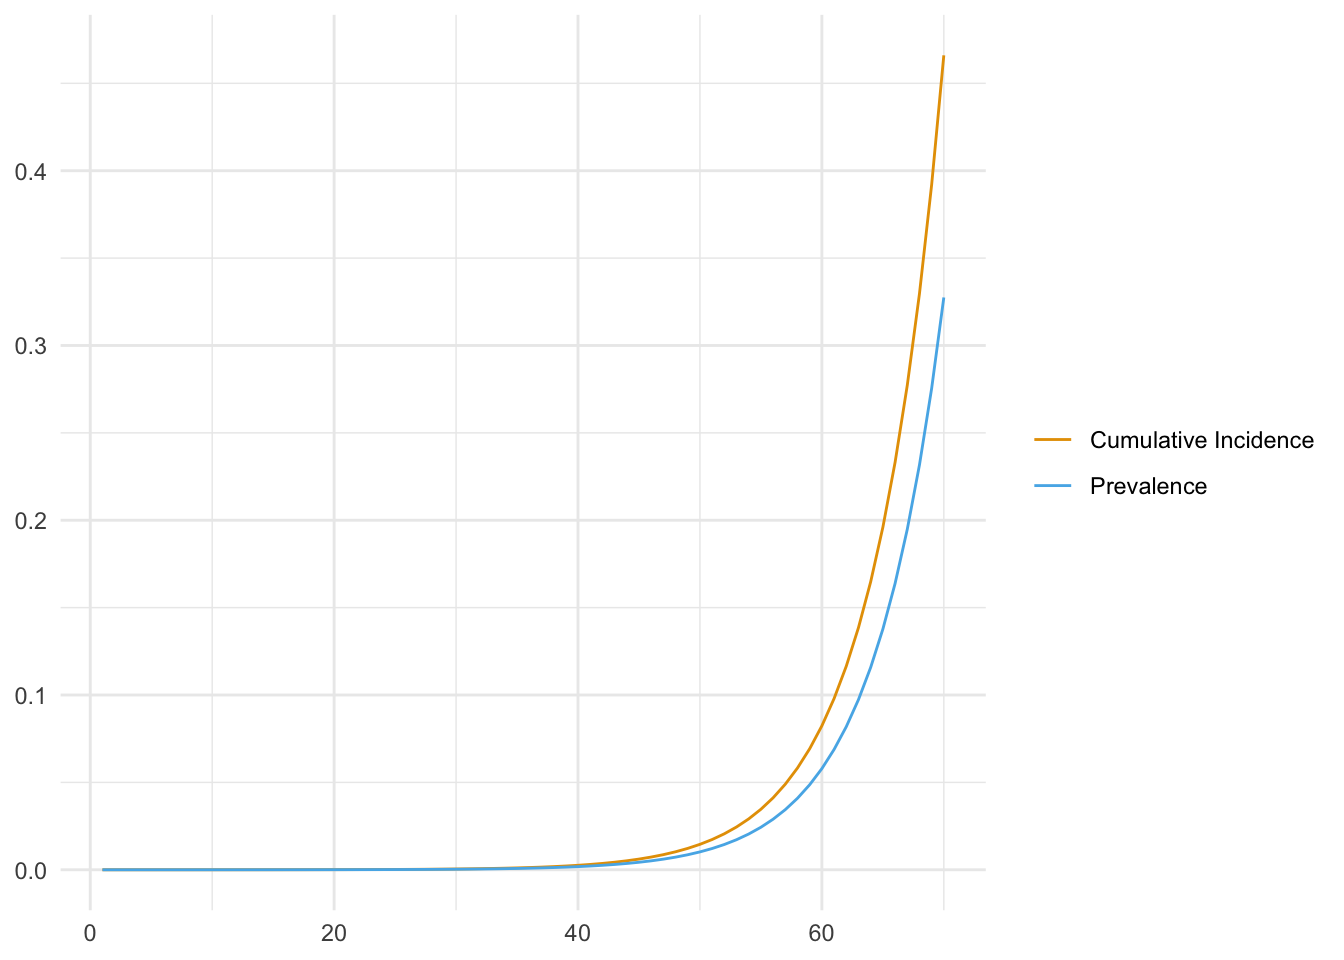
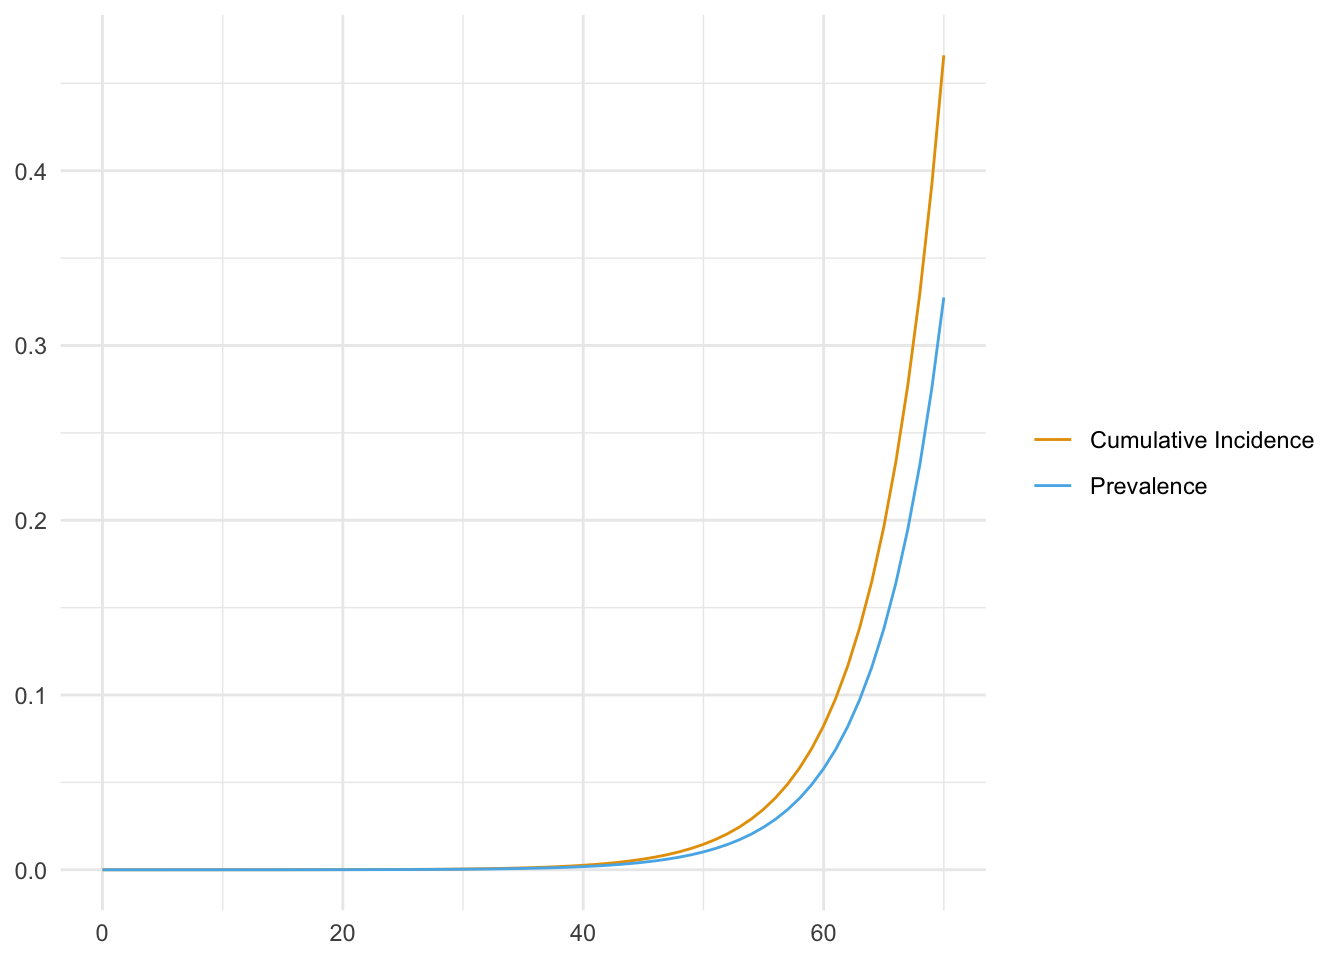
Built site for gh-pages

diff --git a/posts/2025-07-03_swab-ww-comparison/index.html b/posts/2025-07-03_swab-ww-comparison/index.html
@@ -200,7 +200,7 @@ window.Quarto = {
       <div>
       <div class="quarto-title-meta-heading">Modified</div>
       <div class="quarto-title-meta-contents">
-        <p class="date-modified">July 8, 2025</p>
+        <p class="date-modified">July 9, 2025</p>
       </div>
     </div>
       
@@ -245,42 +245,45 @@ window.Quarto = {
 <section id="setup" class="level1">
 <h1>Setup</h1>
 <div class="cell">
-<div class="sourceCode cell-code" id="cb1"><pre class="sourceCode r code-with-copy"><code class="sourceCode r"><span id="cb1-1"><a href="#cb1-1" aria-hidden="true" tabindex="-1"></a><span class="fu">library</span>(tidyverse)</span>
-<span id="cb1-2"><a href="#cb1-2" aria-hidden="true" tabindex="-1"></a><span class="fu">library</span>(knitr)</span>
-<span id="cb1-3"><a href="#cb1-3" aria-hidden="true" tabindex="-1"></a><span class="fu">library</span>(slider)</span>
-<span id="cb1-4"><a href="#cb1-4" aria-hidden="true" tabindex="-1"></a><span class="fu">library</span>(kableExtra)</span>
-<span id="cb1-5"><a href="#cb1-5" aria-hidden="true" tabindex="-1"></a></span>
-<span id="cb1-6"><a href="#cb1-6" aria-hidden="true" tabindex="-1"></a><span class="fu">set.seed</span>(<span class="dv">20250703</span>)</span>
-<span id="cb1-7"><a href="#cb1-7" aria-hidden="true" tabindex="-1"></a></span>
-<span id="cb1-8"><a href="#cb1-8" aria-hidden="true" tabindex="-1"></a><span class="fu">theme_set</span>(<span class="fu">theme_minimal</span>())</span>
-<span id="cb1-9"><a href="#cb1-9" aria-hidden="true" tabindex="-1"></a></span>
-<span id="cb1-10"><a href="#cb1-10" aria-hidden="true" tabindex="-1"></a><span class="co"># Colors borrowed from https://github.com/JLSteenwyk/ggpubfigs</span></span>
-<span id="cb1-11"><a href="#cb1-11" aria-hidden="true" tabindex="-1"></a>wong_eight <span class="ot">&lt;-</span> <span class="fu">c</span>(</span>
-<span id="cb1-12"><a href="#cb1-12" aria-hidden="true" tabindex="-1"></a>  <span class="st">"#E69F00"</span>,</span>
-<span id="cb1-13"><a href="#cb1-13" aria-hidden="true" tabindex="-1"></a>  <span class="st">"#56B4E9"</span>,</span>
-<span id="cb1-14"><a href="#cb1-14" aria-hidden="true" tabindex="-1"></a>  <span class="st">"#009E73"</span>,</span>
-<span id="cb1-15"><a href="#cb1-15" aria-hidden="true" tabindex="-1"></a>  <span class="st">"#F0E442"</span>,</span>
-<span id="cb1-16"><a href="#cb1-16" aria-hidden="true" tabindex="-1"></a>  <span class="st">"#0072B2"</span>,</span>
-<span id="cb1-17"><a href="#cb1-17" aria-hidden="true" tabindex="-1"></a>  <span class="st">"#D55E00"</span>,</span>
-<span id="cb1-18"><a href="#cb1-18" aria-hidden="true" tabindex="-1"></a>  <span class="st">"#CC79A7"</span>,</span>
-<span id="cb1-19"><a href="#cb1-19" aria-hidden="true" tabindex="-1"></a>  <span class="st">"#000000"</span></span>
-<span id="cb1-20"><a href="#cb1-20" aria-hidden="true" tabindex="-1"></a>)</span>
-<span id="cb1-21"><a href="#cb1-21" aria-hidden="true" tabindex="-1"></a><span class="fu">options</span>(</span>
-<span id="cb1-22"><a href="#cb1-22" aria-hidden="true" tabindex="-1"></a>  <span class="at">ggplot2.discrete.colour =</span> <span class="cf">function</span>()</span>
-<span id="cb1-23"><a href="#cb1-23" aria-hidden="true" tabindex="-1"></a>    <span class="fu">scale_colour_manual</span>(<span class="at">values =</span> wong_eight)</span>
-<span id="cb1-24"><a href="#cb1-24" aria-hidden="true" tabindex="-1"></a>)</span>
-<span id="cb1-25"><a href="#cb1-25" aria-hidden="true" tabindex="-1"></a><span class="fu">options</span>(</span>
-<span id="cb1-26"><a href="#cb1-26" aria-hidden="true" tabindex="-1"></a>  <span class="at">ggplot2.discrete.fill =</span> <span class="cf">function</span>()</span>
-<span id="cb1-27"><a href="#cb1-27" aria-hidden="true" tabindex="-1"></a>    <span class="fu">scale_fill_manual</span>(<span class="at">values =</span> wong_eight)</span>
-<span id="cb1-28"><a href="#cb1-28" aria-hidden="true" tabindex="-1"></a>)</span>
-<span id="cb1-29"><a href="#cb1-29" aria-hidden="true" tabindex="-1"></a></span>
-<span id="cb1-30"><a href="#cb1-30" aria-hidden="true" tabindex="-1"></a><span class="co"># For axis labels</span></span>
-<span id="cb1-31"><a href="#cb1-31" aria-hidden="true" tabindex="-1"></a>scientific <span class="ot">&lt;-</span> <span class="cf">function</span>(x) {</span>
-<span id="cb1-32"><a href="#cb1-32" aria-hidden="true" tabindex="-1"></a>  <span class="fu">parse</span>(<span class="at">text =</span> <span class="fu">sprintf</span>(<span class="st">"10^{%f}"</span>, <span class="fu">log10</span>(x)))</span>
-<span id="cb1-33"><a href="#cb1-33" aria-hidden="true" tabindex="-1"></a>}</span>
-<span id="cb1-34"><a href="#cb1-34" aria-hidden="true" tabindex="-1"></a></span>
-<span id="cb1-35"><a href="#cb1-35" aria-hidden="true" tabindex="-1"></a><span class="co"># Geometric mean</span></span>
-<span id="cb1-36"><a href="#cb1-36" aria-hidden="true" tabindex="-1"></a>gm <span class="ot">&lt;-</span> <span class="cf">function</span>(x) <span class="fu">exp</span>(<span class="fu">mean</span>(<span class="fu">log</span>(x)))</span></code><button title="Copy to Clipboard" class="code-copy-button"><i class="bi"></i></button></pre></div>
+<div class="sourceCode cell-code" id="cb1"><pre class="sourceCode r code-with-copy"><code class="sourceCode r"><span id="cb1-1"><a href="#cb1-1" aria-hidden="true" tabindex="-1"></a><span class="fu">library</span>(dplyr)</span>
+<span id="cb1-2"><a href="#cb1-2" aria-hidden="true" tabindex="-1"></a><span class="fu">library</span>(tibble)</span>
+<span id="cb1-3"><a href="#cb1-3" aria-hidden="true" tabindex="-1"></a><span class="fu">library</span>(readr)</span>
+<span id="cb1-4"><a href="#cb1-4" aria-hidden="true" tabindex="-1"></a><span class="fu">library</span>(ggplot2)</span>
+<span id="cb1-5"><a href="#cb1-5" aria-hidden="true" tabindex="-1"></a><span class="fu">library</span>(slider)</span>
+<span id="cb1-6"><a href="#cb1-6" aria-hidden="true" tabindex="-1"></a><span class="fu">library</span>(knitr)</span>
+<span id="cb1-7"><a href="#cb1-7" aria-hidden="true" tabindex="-1"></a><span class="fu">library</span>(kableExtra)</span>
+<span id="cb1-8"><a href="#cb1-8" aria-hidden="true" tabindex="-1"></a></span>
+<span id="cb1-9"><a href="#cb1-9" aria-hidden="true" tabindex="-1"></a><span class="fu">set.seed</span>(<span class="dv">20250703</span>)</span>
+<span id="cb1-10"><a href="#cb1-10" aria-hidden="true" tabindex="-1"></a></span>
+<span id="cb1-11"><a href="#cb1-11" aria-hidden="true" tabindex="-1"></a><span class="fu">theme_set</span>(<span class="fu">theme_minimal</span>())</span>
+<span id="cb1-12"><a href="#cb1-12" aria-hidden="true" tabindex="-1"></a></span>
+<span id="cb1-13"><a href="#cb1-13" aria-hidden="true" tabindex="-1"></a><span class="co"># Colors borrowed from https://github.com/JLSteenwyk/ggpubfigs</span></span>
+<span id="cb1-14"><a href="#cb1-14" aria-hidden="true" tabindex="-1"></a>wong_eight <span class="ot">&lt;-</span> <span class="fu">c</span>(</span>
+<span id="cb1-15"><a href="#cb1-15" aria-hidden="true" tabindex="-1"></a>  <span class="st">"#E69F00"</span>,</span>
+<span id="cb1-16"><a href="#cb1-16" aria-hidden="true" tabindex="-1"></a>  <span class="st">"#56B4E9"</span>,</span>
+<span id="cb1-17"><a href="#cb1-17" aria-hidden="true" tabindex="-1"></a>  <span class="st">"#009E73"</span>,</span>
+<span id="cb1-18"><a href="#cb1-18" aria-hidden="true" tabindex="-1"></a>  <span class="st">"#F0E442"</span>,</span>
+<span id="cb1-19"><a href="#cb1-19" aria-hidden="true" tabindex="-1"></a>  <span class="st">"#0072B2"</span>,</span>
+<span id="cb1-20"><a href="#cb1-20" aria-hidden="true" tabindex="-1"></a>  <span class="st">"#D55E00"</span>,</span>
+<span id="cb1-21"><a href="#cb1-21" aria-hidden="true" tabindex="-1"></a>  <span class="st">"#CC79A7"</span>,</span>
+<span id="cb1-22"><a href="#cb1-22" aria-hidden="true" tabindex="-1"></a>  <span class="st">"#000000"</span></span>
+<span id="cb1-23"><a href="#cb1-23" aria-hidden="true" tabindex="-1"></a>)</span>
+<span id="cb1-24"><a href="#cb1-24" aria-hidden="true" tabindex="-1"></a><span class="fu">options</span>(</span>
+<span id="cb1-25"><a href="#cb1-25" aria-hidden="true" tabindex="-1"></a>  <span class="at">ggplot2.discrete.colour =</span> <span class="cf">function</span>()</span>
+<span id="cb1-26"><a href="#cb1-26" aria-hidden="true" tabindex="-1"></a>    <span class="fu">scale_colour_manual</span>(<span class="at">values =</span> wong_eight)</span>
+<span id="cb1-27"><a href="#cb1-27" aria-hidden="true" tabindex="-1"></a>)</span>
+<span id="cb1-28"><a href="#cb1-28" aria-hidden="true" tabindex="-1"></a><span class="fu">options</span>(</span>
+<span id="cb1-29"><a href="#cb1-29" aria-hidden="true" tabindex="-1"></a>  <span class="at">ggplot2.discrete.fill =</span> <span class="cf">function</span>()</span>
+<span id="cb1-30"><a href="#cb1-30" aria-hidden="true" tabindex="-1"></a>    <span class="fu">scale_fill_manual</span>(<span class="at">values =</span> wong_eight)</span>
+<span id="cb1-31"><a href="#cb1-31" aria-hidden="true" tabindex="-1"></a>)</span>
+<span id="cb1-32"><a href="#cb1-32" aria-hidden="true" tabindex="-1"></a></span>
+<span id="cb1-33"><a href="#cb1-33" aria-hidden="true" tabindex="-1"></a><span class="co"># For axis labels</span></span>
+<span id="cb1-34"><a href="#cb1-34" aria-hidden="true" tabindex="-1"></a>scientific <span class="ot">&lt;-</span> <span class="cf">function</span>(x) {</span>
+<span id="cb1-35"><a href="#cb1-35" aria-hidden="true" tabindex="-1"></a>  <span class="fu">parse</span>(<span class="at">text =</span> <span class="fu">sprintf</span>(<span class="st">"10^{%f}"</span>, <span class="fu">log10</span>(x)))</span>
+<span id="cb1-36"><a href="#cb1-36" aria-hidden="true" tabindex="-1"></a>}</span>
+<span id="cb1-37"><a href="#cb1-37" aria-hidden="true" tabindex="-1"></a></span>
+<span id="cb1-38"><a href="#cb1-38" aria-hidden="true" tabindex="-1"></a><span class="co"># Geometric mean</span></span>
+<span id="cb1-39"><a href="#cb1-39" aria-hidden="true" tabindex="-1"></a>gm <span class="ot">&lt;-</span> <span class="cf">function</span>(x) <span class="fu">exp</span>(<span class="fu">mean</span>(<span class="fu">log</span>(x)))</span></code><button title="Copy to Clipboard" class="code-copy-button"><i class="bi"></i></button></pre></div>
 </div>
 </section>
 <section id="model" class="level1">
@@ -299,7 +302,7 @@ window.Quarto = {
 <span id="cb2-8"><a href="#cb2-8" aria-hidden="true" tabindex="-1"></a>max_day <span class="ot">&lt;-</span> <span class="fu">floor</span>(<span class="fu">log</span>(growth_rate <span class="sc">*</span> population_size <span class="sc">/</span> <span class="dv">2</span>) <span class="sc">/</span> growth_rate)</span>
 <span id="cb2-9"><a href="#cb2-9" aria-hidden="true" tabindex="-1"></a></span>
 <span id="cb2-10"><a href="#cb2-10" aria-hidden="true" tabindex="-1"></a>epi_model <span class="ot">&lt;-</span> <span class="fu">tibble</span>(</span>
-<span id="cb2-11"><a href="#cb2-11" aria-hidden="true" tabindex="-1"></a>  <span class="at">day =</span> <span class="dv">1</span><span class="sc">:</span>max_day,</span>
+<span id="cb2-11"><a href="#cb2-11" aria-hidden="true" tabindex="-1"></a>  <span class="at">day =</span> <span class="dv">0</span><span class="sc">:</span>max_day,</span>
 <span id="cb2-12"><a href="#cb2-12" aria-hidden="true" tabindex="-1"></a>  <span class="co"># Exponential growth from a single case</span></span>
 <span id="cb2-13"><a href="#cb2-13" aria-hidden="true" tabindex="-1"></a>  <span class="at">incidence =</span> <span class="fu">exp</span>(day <span class="sc">*</span> growth_rate) <span class="sc">/</span> population_size,</span>
 <span id="cb2-14"><a href="#cb2-14" aria-hidden="true" tabindex="-1"></a>  <span class="at">cumulative_incidence =</span> <span class="fu">cumsum</span>(incidence),</span>
@@ -363,14 +366,17 @@ window.Quarto = {
 <div class="cell">
 <div class="sourceCode cell-code" id="cb4"><pre class="sourceCode r code-with-copy"><code class="sourceCode r"><span id="cb4-1"><a href="#cb4-1" aria-hidden="true" tabindex="-1"></a>n_samples <span class="ot">=</span> <span class="dv">2000</span></span>
 <span id="cb4-2"><a href="#cb4-2" aria-hidden="true" tabindex="-1"></a></span>
-<span id="cb4-3"><a href="#cb4-3" aria-hidden="true" tabindex="-1"></a>posteriors <span class="ot">&lt;-</span> <span class="fu">read_tsv</span>(<span class="st">"https://raw.githubusercontent.com/naobservatory/swab-based-p2ra/refs/heads/main/tables/posteriors.tsv"</span>)</span>
-<span id="cb4-4"><a href="#cb4-4" aria-hidden="true" tabindex="-1"></a></span>
-<span id="cb4-5"><a href="#cb4-5" aria-hidden="true" tabindex="-1"></a>thinned_posteriors <span class="ot">&lt;-</span> posteriors <span class="sc">%&gt;%</span></span>
-<span id="cb4-6"><a href="#cb4-6" aria-hidden="true" tabindex="-1"></a>  <span class="fu">filter</span>(group <span class="sc">%in%</span> <span class="fu">c</span>(<span class="st">"Rhinoviruses"</span>, <span class="st">"Coronaviruses (seasonal)"</span>, <span class="st">"Coronaviruses (SARS-CoV-2)"</span>)) <span class="sc">%&gt;%</span></span>
-<span id="cb4-7"><a href="#cb4-7" aria-hidden="true" tabindex="-1"></a>  <span class="fu">select</span>(species, group, mu_swab, phi_swab, mu_ww, phi_ww) <span class="sc">%&gt;%</span></span>
-<span id="cb4-8"><a href="#cb4-8" aria-hidden="true" tabindex="-1"></a>  <span class="fu">group_by</span>(species, group) <span class="sc">%&gt;%</span></span>
-<span id="cb4-9"><a href="#cb4-9" aria-hidden="true" tabindex="-1"></a>  <span class="fu">slice_sample</span>(<span class="at">n =</span> n_samples) <span class="sc">%&gt;%</span></span>
-<span id="cb4-10"><a href="#cb4-10" aria-hidden="true" tabindex="-1"></a>  <span class="fu">mutate</span>(<span class="at">rep =</span> <span class="dv">1</span><span class="sc">:</span><span class="fu">n</span>()) </span></code><button title="Copy to Clipboard" class="code-copy-button"><i class="bi"></i></button></pre></div>
+<span id="cb4-3"><a href="#cb4-3" aria-hidden="true" tabindex="-1"></a>posteriors <span class="ot">&lt;-</span> <span class="fu">read_tsv</span>(</span>
+<span id="cb4-4"><a href="#cb4-4" aria-hidden="true" tabindex="-1"></a>  <span class="st">"https://raw.githubusercontent.com/naobservatory/swab-based-p2ra/refs/heads/main/tables/posteriors.tsv"</span>,</span>
+<span id="cb4-5"><a href="#cb4-5" aria-hidden="true" tabindex="-1"></a>  <span class="at">show_col_types =</span> <span class="cn">FALSE</span>,</span>
+<span id="cb4-6"><a href="#cb4-6" aria-hidden="true" tabindex="-1"></a>  )</span>
+<span id="cb4-7"><a href="#cb4-7" aria-hidden="true" tabindex="-1"></a></span>
+<span id="cb4-8"><a href="#cb4-8" aria-hidden="true" tabindex="-1"></a>thinned_posteriors <span class="ot">&lt;-</span> posteriors <span class="sc">%&gt;%</span></span>
+<span id="cb4-9"><a href="#cb4-9" aria-hidden="true" tabindex="-1"></a>  <span class="fu">filter</span>(group <span class="sc">%in%</span> <span class="fu">c</span>(<span class="st">"Rhinoviruses"</span>, <span class="st">"Coronaviruses (seasonal)"</span>, <span class="st">"Coronaviruses (SARS-CoV-2)"</span>)) <span class="sc">%&gt;%</span></span>
+<span id="cb4-10"><a href="#cb4-10" aria-hidden="true" tabindex="-1"></a>  <span class="fu">select</span>(species, group, mu_swab, phi_swab, mu_ww, phi_ww) <span class="sc">%&gt;%</span></span>
+<span id="cb4-11"><a href="#cb4-11" aria-hidden="true" tabindex="-1"></a>  <span class="fu">group_by</span>(species, group) <span class="sc">%&gt;%</span></span>
+<span id="cb4-12"><a href="#cb4-12" aria-hidden="true" tabindex="-1"></a>  <span class="fu">slice_sample</span>(<span class="at">n =</span> n_samples) <span class="sc">%&gt;%</span></span>
+<span id="cb4-13"><a href="#cb4-13" aria-hidden="true" tabindex="-1"></a>  <span class="fu">mutate</span>(<span class="at">rep =</span> <span class="fu">row_number</span>()) </span></code><button title="Copy to Clipboard" class="code-copy-button"><i class="bi"></i></button></pre></div>
 </div>
 <p>Next, for each virus and for each replicate (posterior draw), we simulate the wastewater and swab reads according to the model. We then summarize each replicate by the cumulative incidence at detection for each sample type.</p>
 <div class="cell">
@@ -405,17 +411,19 @@ window.Quarto = {
 <span id="cb5-29"><a href="#cb5-29" aria-hidden="true" tabindex="-1"></a>      cumulative_incidence[<span class="fu">which.max</span>(cum_reads_swab <span class="sc">&gt;=</span> detection_threshold)],</span>
 <span id="cb5-30"><a href="#cb5-30" aria-hidden="true" tabindex="-1"></a>      <span class="fl">1.0</span></span>
 <span id="cb5-31"><a href="#cb5-31" aria-hidden="true" tabindex="-1"></a>    ),</span>
-<span id="cb5-32"><a href="#cb5-32" aria-hidden="true" tabindex="-1"></a>  )</span></code><button title="Copy to Clipboard" class="code-copy-button"><i class="bi"></i></button></pre></div>
+<span id="cb5-32"><a href="#cb5-32" aria-hidden="true" tabindex="-1"></a>    <span class="at">.groups =</span> <span class="st">"drop_last"</span>,</span>
+<span id="cb5-33"><a href="#cb5-33" aria-hidden="true" tabindex="-1"></a>  )</span></code><button title="Copy to Clipboard" class="code-copy-button"><i class="bi"></i></button></pre></div>
 </div>
 <p>In a small number of replicates, a method does not detect the virus by the end of the simulations. In these cases, the cumulative incidence at detection is between 50% and 100%, and we record it as 100%. We can confirm that this is rare (counts out of 2000 replicates per virus):</p>
 <div class="cell">
 <div class="sourceCode cell-code" id="cb6"><pre class="sourceCode r code-with-copy"><code class="sourceCode r"><span id="cb6-1"><a href="#cb6-1" aria-hidden="true" tabindex="-1"></a>detection <span class="sc">%&gt;%</span></span>
 <span id="cb6-2"><a href="#cb6-2" aria-hidden="true" tabindex="-1"></a>  <span class="fu">summarize</span>(</span>
 <span id="cb6-3"><a href="#cb6-3" aria-hidden="true" tabindex="-1"></a>    <span class="at">swab =</span> <span class="fu">sum</span>(ci_at_detection_swab <span class="sc">&gt;</span> <span class="fl">0.99</span>),</span>
-<span id="cb6-4"><a href="#cb6-4" aria-hidden="true" tabindex="-1"></a>    <span class="at">wastewater =</span> <span class="fu">sum</span>(ci_at_detection_ww <span class="sc">&gt;</span> <span class="fl">0.99</span>)</span>
-<span id="cb6-5"><a href="#cb6-5" aria-hidden="true" tabindex="-1"></a>  ) <span class="sc">%&gt;%</span></span>
-<span id="cb6-6"><a href="#cb6-6" aria-hidden="true" tabindex="-1"></a>  <span class="fu">select</span>(<span class="sc">-</span>group) <span class="sc">%&gt;%</span></span>
-<span id="cb6-7"><a href="#cb6-7" aria-hidden="true" tabindex="-1"></a>  kable</span></code><button title="Copy to Clipboard" class="code-copy-button"><i class="bi"></i></button></pre></div>
+<span id="cb6-4"><a href="#cb6-4" aria-hidden="true" tabindex="-1"></a>    <span class="at">wastewater =</span> <span class="fu">sum</span>(ci_at_detection_ww <span class="sc">&gt;</span> <span class="fl">0.99</span>),</span>
+<span id="cb6-5"><a href="#cb6-5" aria-hidden="true" tabindex="-1"></a>    <span class="at">.groups =</span> <span class="st">"drop"</span>,</span>
+<span id="cb6-6"><a href="#cb6-6" aria-hidden="true" tabindex="-1"></a>  ) <span class="sc">%&gt;%</span></span>
+<span id="cb6-7"><a href="#cb6-7" aria-hidden="true" tabindex="-1"></a>  <span class="fu">select</span>(<span class="sc">-</span>group) <span class="sc">%&gt;%</span></span>
+<span id="cb6-8"><a href="#cb6-8" aria-hidden="true" tabindex="-1"></a>  kable</span></code><button title="Copy to Clipboard" class="code-copy-button"><i class="bi"></i></button></pre></div>
 <div class="cell-output-display">
 <table class="caption-top table table-sm table-striped small">
 <thead>
@@ -434,12 +442,12 @@ window.Quarto = {
 <tr class="even">
 <td style="text-align: left;">HCoV-HKU1</td>
 <td style="text-align: right;">0</td>
-<td style="text-align: right;">3</td>
+<td style="text-align: right;">1</td>
 </tr>
 <tr class="odd">
 <td style="text-align: left;">HCoV-NL63</td>
 <td style="text-align: right;">0</td>
-<td style="text-align: right;">1</td>
+<td style="text-align: right;">0</td>
 </tr>
 <tr class="even">
 <td style="text-align: left;">HCoV-OC43</td>
@@ -454,7 +462,7 @@ window.Quarto = {
 <tr class="even">
 <td style="text-align: left;">Rhinovirus B</td>
 <td style="text-align: right;">0</td>
-<td style="text-align: right;">4</td>
+<td style="text-align: right;">1</td>
 </tr>
 <tr class="odd">
 <td style="text-align: left;">Rhinovirus C</td>
@@ -517,13 +525,13 @@ ratio
 HCoV-229E
 </td>
 <td style="text-align:right;width: 3cm; font-family: monospace;">
-0.000722
+0.000703
 </td>
 <td style="text-align:right;width: 3cm; font-family: monospace;">
-0.000615
+0.000628
 </td>
 <td style="text-align:right;width: 3cm; font-family: monospace;">
-1.175
+1.119
 </td>
 </tr>
 <tr>
@@ -531,13 +539,13 @@ HCoV-229E
 HCoV-HKU1
 </td>
 <td style="text-align:right;width: 3cm; font-family: monospace;">
-0.004255
+0.004499
 </td>
 <td style="text-align:right;width: 3cm; font-family: monospace;">
-0.001364
+0.001385
 </td>
 <td style="text-align:right;width: 3cm; font-family: monospace;">
-3.120
+3.249
 </td>
 </tr>
 <tr>
@@ -545,13 +553,13 @@ HCoV-HKU1
 HCoV-NL63
 </td>
 <td style="text-align:right;width: 3cm; font-family: monospace;">
-0.003247
+0.003203
 </td>
 <td style="text-align:right;width: 3cm; font-family: monospace;">
-0.002126
+0.002206
 </td>
 <td style="text-align:right;width: 3cm; font-family: monospace;">
-1.527
+1.452
 </td>
 </tr>
 <tr>
@@ -559,13 +567,13 @@ HCoV-NL63
 HCoV-OC43
 </td>
 <td style="text-align:right;width: 3cm; font-family: monospace;">
-0.001137
+0.001110
 </td>
 <td style="text-align:right;width: 3cm; font-family: monospace;">
-0.001453
+0.001434
 </td>
 <td style="text-align:right;width: 3cm; font-family: monospace;">
-0.782
+0.774
 </td>
 </tr>
 <tr>
@@ -573,13 +581,13 @@ HCoV-OC43
 Rhinovirus A
 </td>
 <td style="text-align:right;width: 3cm; font-family: monospace;">
-0.004307
+0.004124
 </td>
 <td style="text-align:right;width: 3cm; font-family: monospace;">
-0.003714
+0.003858
 </td>
 <td style="text-align:right;width: 3cm; font-family: monospace;">
-1.160
+1.069
 </td>
 </tr>
 <tr>
@@ -587,13 +595,13 @@ Rhinovirus A
 Rhinovirus B
 </td>
 <td style="text-align:right;width: 3cm; font-family: monospace;">
-0.005154
+0.005589
 </td>
 <td style="text-align:right;width: 3cm; font-family: monospace;">
-0.001626
+0.001704
 </td>
 <td style="text-align:right;width: 3cm; font-family: monospace;">
-3.169
+3.280
 </td>
 </tr>
 <tr>
@@ -601,13 +609,13 @@ Rhinovirus B
 Rhinovirus C
 </td>
 <td style="text-align:right;width: 3cm; font-family: monospace;">
-0.000721
+0.000707
 </td>
 <td style="text-align:right;width: 3cm; font-family: monospace;">
-0.001275
+0.001296
 </td>
 <td style="text-align:right;width: 3cm; font-family: monospace;">
-0.565
+0.546
 </td>
 </tr>
 <tr>
@@ -618,10 +626,10 @@ SARS-CoV-2
 0.000018
 </td>
 <td style="text-align:right;width: 3cm; font-family: monospace;">
-0.000896
+0.000872
 </td>
 <td style="text-align:right;width: 3cm; font-family: monospace;">
-0.021
+0.020
 </td>
 </tr>
 </tbody>
